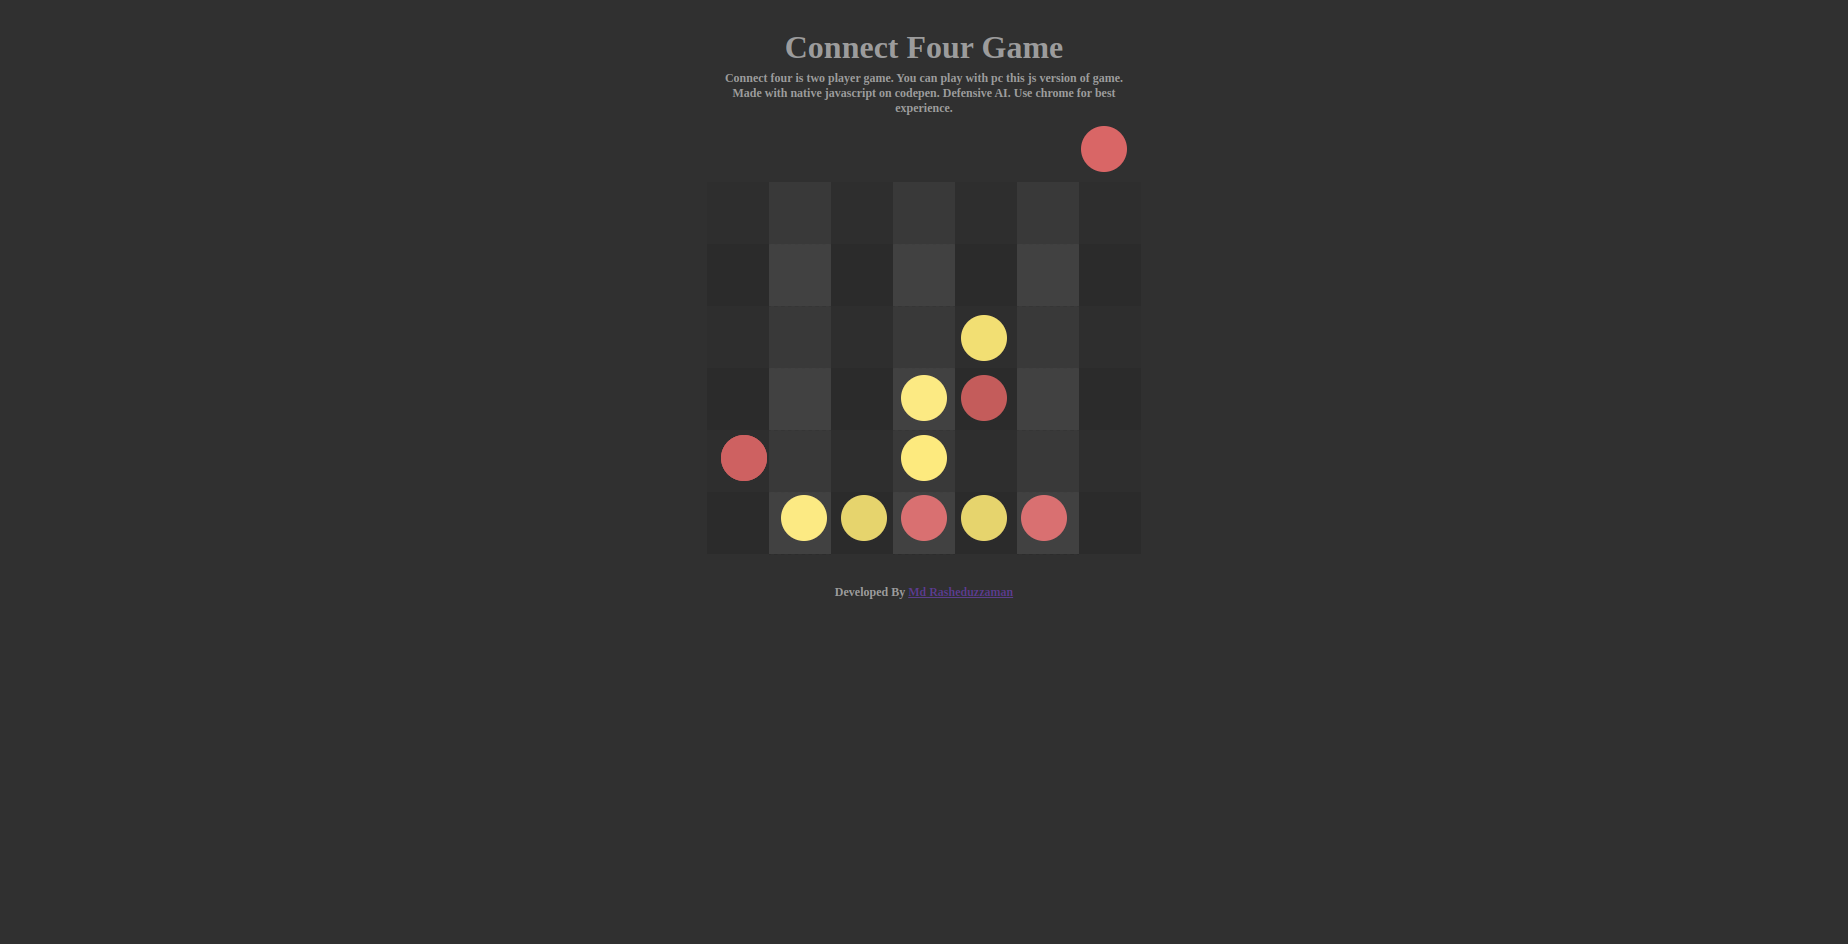
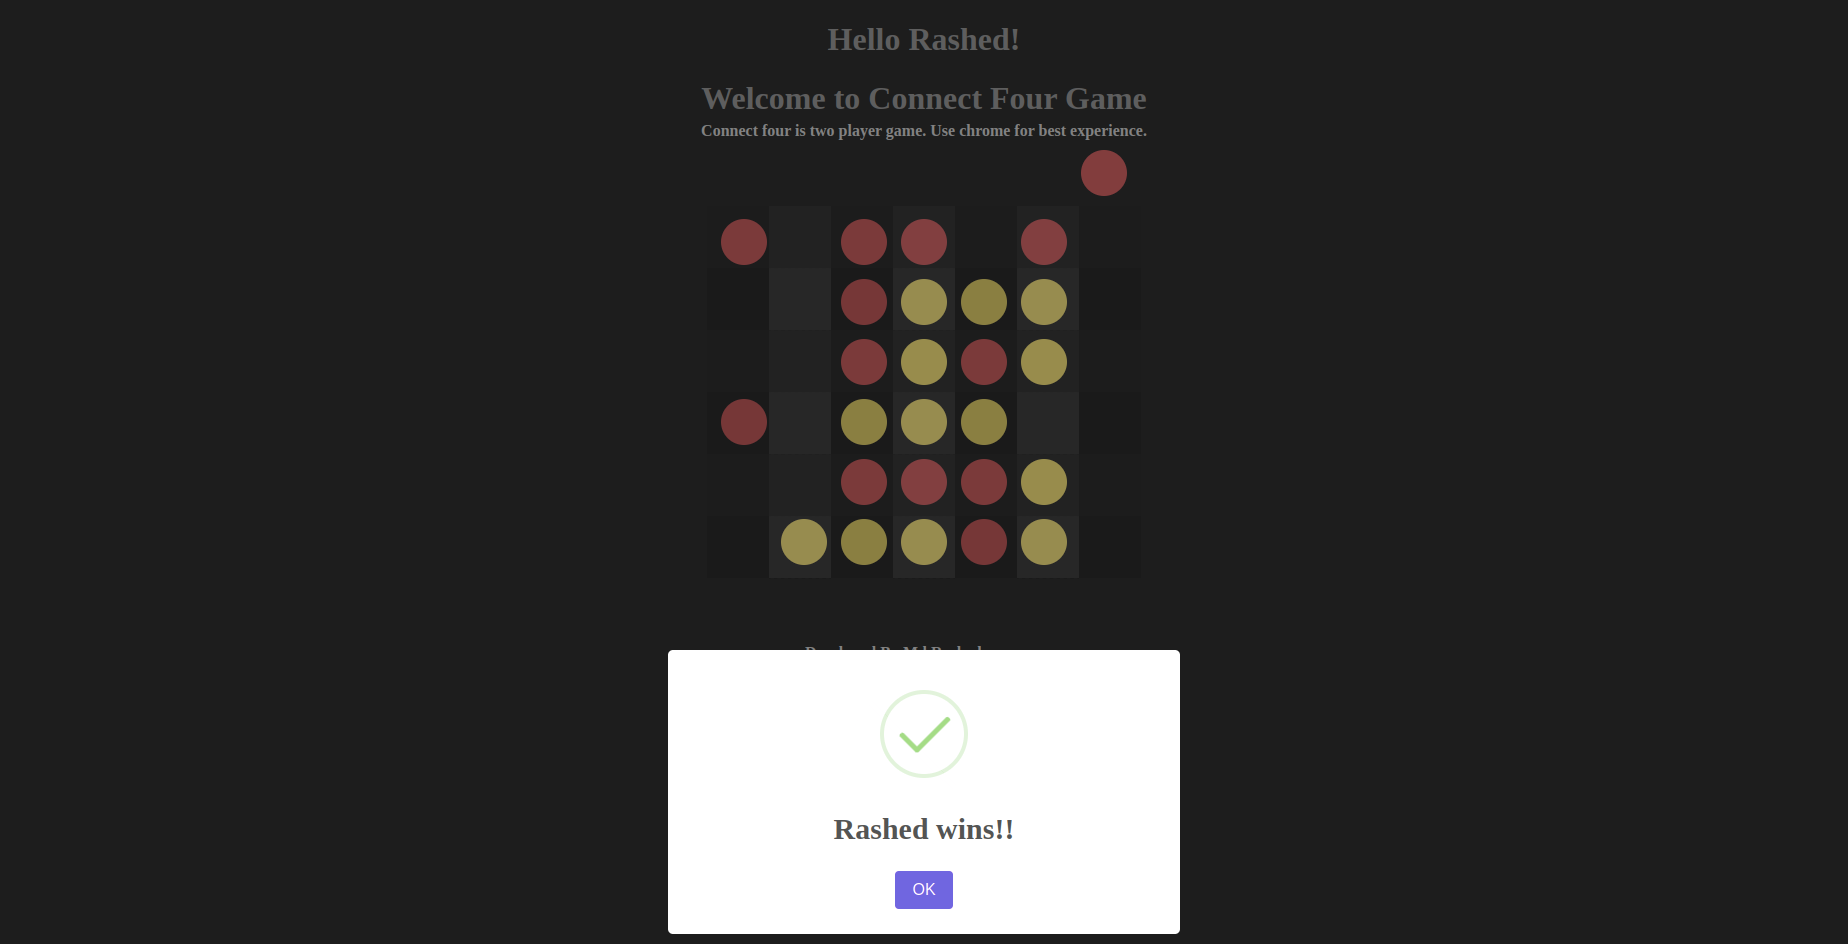
update readme.md add video

Changed region(s): [[0.3701, 0.0307, 0.6169, 0.6451], [0.3393, 0.6758, 0.6477, 1.0]]

diff --git a/index.html b/index.html
@@ -1,56 +1,118 @@
 <!DOCTYPE html>
 <html>
+
 <head>
     <title>Connect Four Game | Jmrashed</title>
-    <meta name="description" content="A simple web-based implementation of the classic Connect Four game using HTML, CSS, and JavaScript.">
+    <meta name="description"
+        content="A simple web-based implementation of the classic Connect Four game using HTML, CSS, and JavaScript.">
     <meta name="author" content="Md Rasheduzzaman">
     <meta name="viewport" content="width=device-width, initial-scale=1.0">
-    
+
     <!-- Open Graph meta tags for social media sharing -->
     <meta property="og:title" content="Connect Four Game">
     <meta property="og:description" content="Play the classic Connect Four game online.">
     <meta property="og:image" content="screenshot.png">
     <meta property="og:url" content="https://yourwebsite.com">
     <meta property="og:type" content="website">
-    
+
     <!-- Twitter Card meta tags for Twitter sharing -->
     <meta name="twitter:card" content="summary_large_image">
     <meta name="twitter:title" content="Connect Four Game">
     <meta name="twitter:description" content="Play the classic Connect Four game online.">
     <meta name="twitter:image" content="screenshot.png">
-    
+
     <!-- Favicon -->
     <link rel="icon" href="favicon.ico" type="image/x-icon">
-    <link rel="stylesheet" type="text/css" href="styles.css">
+    <!-- Add Bootstrap CSS CDN link -->
+    <link rel="stylesheet" href="https://maxcdn.bootstrapcdn.com/bootstrap/4.5.2/css/bootstrap.min.css">
     <script src="https://cdn.jsdelivr.net/npm/sweetalert2@11"></script>
+    <style>
+        /* Apply dark mode styles */
+        body {
+            background-color: #343a40;
+            color: #ffffff;
+        }
 
+        .container {
+            background-color: #495057;
+            padding: 20px;
+            border-radius: 10px;
+        }
+
+        .form-control {
+            background-color: #6c757d;
+            color: #ffffff;
+        }
+
+        .btn-primary {
+            background-color: #007bff;
+            border-color: #007bff;
+        }
+
+        .btn-primary:hover {
+            background-color: #0056b3;
+            border-color: #0056b3;
+        }
+
+        .slow-fade-in {
+            animation: slow-fade 2s ease-in-out;
+        }
+
+        @keyframes slow-fade {
+            0% {
+                opacity: 0;
+                transform: translateY(-20px);
+            }
+
+            100% {
+                opacity: 1;
+                transform: translateY(0);
+            }
+        }
+    </style>
 </head>
+
 <body>
-    <h1>Connect Four Game</h1>
-    <p class="info">Connect four is two player game. Use chrome for best experience.</p>
-    <div id="game-base">
-      <div id="game-table">
-        
-      </div>
-    </div><!-- end base -->
-
-    <p class="info">Developed By <a href="https://github.com/jmrashed" target="_blank">Md Rasheduzzaman</a> </p>
-    <script src="script.js"></script>
-
-<section class="sticky">
-    <div class="bubbles">
-        <div class="bubble"></div>
-      <div class="bubble"></div>
-      <div class="bubble"></div>
-      <div class="bubble"></div>
-      <div class="bubble"></div>
-      <div class="bubble"></div>
-      <div class="bubble"></div>
-      <div class="bubble"></div>
-      <div class="bubble"></div>
-      <div class="bubble"></div>
-      
+    <div class="container mt-5">
+        <label for="name">Enter your name: </label>
+        <input type="text" id="name" class="form-control">
+        <button class="btn btn-primary mt-2" onclick="saveName()">Save</button>
     </div>
-  </section>
+
+    <script>
+        function saveName() {
+            var name = document.getElementById("name").value;
+            if (name.trim() !== "") {
+                sessionStorage.setItem("username", name);
+                window.location.href = "play.html";
+            } else {
+                alert("Please enter a valid name.");
+            }
+        }
+
+        // Check if a name is already saved in session and display a greeting.
+        var savedName = sessionStorage.getItem("username");
+        if (savedName) {
+            document.getElementById("name").value = savedName;
+
+
+            Swal.fire({
+                icon: 'info',
+                title: 'Mr. ' + savedName,
+                text: "Welcome to back to 4 connect game",
+                showConfirmButton: false,
+                customClass: {
+                    popup: 'slow-fade-in' // Apply the CSS class for animation
+                },
+                timer: 2000 // Automatically close after 2 seconds
+            });
+        }
+    </script>
+
+    <!-- Add Bootstrap JS CDN link (optional, for enhanced functionality) -->
+    <script src="https://ajax.googleapis.com/ajax/libs/jquery/3.5.1/jquery.min.js"></script>
+    <script src="https://cdnjs.cloudflare.com/ajax/libs/popper.js/1.16.0/umd/popper.min.js"></script>
+    <script src="https://maxcdn.bootstrapcdn.com/bootstrap/4.5.2/js/bootstrap.min.js"></script>
 </body>
+
 </html>

diff --git a/play.html b/play.html
@@ -1,0 +1,68 @@
+<!DOCTYPE html>
+<html>
+<head>
+    <title>Connect Four Game | Jmrashed</title>
+    <meta name="description" content="A simple web-based implementation of the classic Connect Four game using HTML, CSS, and JavaScript.">
+    <meta name="author" content="Md Rasheduzzaman">
+    <meta name="viewport" content="width=device-width, initial-scale=1.0">
+    
+    <!-- Open Graph meta tags for social media sharing -->
+    <meta property="og:title" content="Connect Four Game">
+    <meta property="og:description" content="Play the classic Connect Four game online.">
+    <meta property="og:image" content="screenshot.png">
+    <meta property="og:url" content="https://yourwebsite.com">
+    <meta property="og:type" content="website">
+    
+    <!-- Twitter Card meta tags for Twitter sharing -->
+    <meta name="twitter:card" content="summary_large_image">
+    <meta name="twitter:title" content="Connect Four Game">
+    <meta name="twitter:description" content="Play the classic Connect Four game online.">
+    <meta name="twitter:image" content="screenshot.png">
+    
+    <!-- Favicon -->
+    <link rel="icon" href="favicon.ico" type="image/x-icon">
+    <link rel="stylesheet" type="text/css" href="styles.css">
+    <script src="https://cdn.jsdelivr.net/npm/sweetalert2@11"></script>
+
+</head>
+<body>
+    <h1>Hello <span id="username"></span>! </h1>
+    <h1>Welcome to Connect Four Game</h1>
+    <p class="info">Connect four is two player game. Use chrome for best experience.</p>
+    <div id="game-base">
+      <div id="game-table">
+        
+      </div>
+    </div><!-- end base -->
+ 
+
+    <p class="info" style="margin-top: 35px;">Developed By <a href="https://github.com/jmrashed" target="_blank">Md Rasheduzzaman</a> </p>
+    <script src="script.js"></script>
+
+<section class="sticky">
+    <div class="bubbles">
+        <div class="bubble"></div>
+      <div class="bubble"></div>
+      <div class="bubble"></div>
+      <div class="bubble"></div>
+      <div class="bubble"></div>
+      <div class="bubble"></div>
+      <div class="bubble"></div>
+      <div class="bubble"></div>
+      <div class="bubble"></div>
+      <div class="bubble"></div>
+      
+    </div>
+  </section>
+
+  <script>
+     var savedName = sessionStorage.getItem("username");
+        if (savedName) {
+            document.getElementById("username").textContent = savedName;
+        }
+
+
+
+  </script>
+</body>
+</html>

diff --git a/script.js b/script.js
@@ -159,7 +159,13 @@ function checkForMoveVictory() {
     if (!checkForVictory(currentRow, currentCol)) {
       placeDisc(3 - currentPlayer);
     } else {
-      var ww = currentPlayer == 2 ? 'Computer' : 'Player';
+      var savedName = sessionStorage.getItem("username");
+      if (savedName) {
+          document.getElementById("username").textContent = savedName;
+      }else{
+        savedName = "Player";
+      }
+      var ww = currentPlayer == 2 ? 'Computer' : savedName;
       placeDisc(3 - currentPlayer);
  
 

diff --git a/styles.css b/styles.css
@@ -172,3 +172,18 @@ body{
   .last-move {
     border: 1px solid green !important;
   }
+
+
+  .custom-button {
+    background-color: #28a745;
+    color: #ffffff;
+    border: none;
+    padding: 10px 20px;
+    border-radius: 5px;
+    cursor: pointer !important;
+    transition: background-color 0.3s ease;
+
+}
+.custom-button:hover {
+    background-color: #218838;
+}
